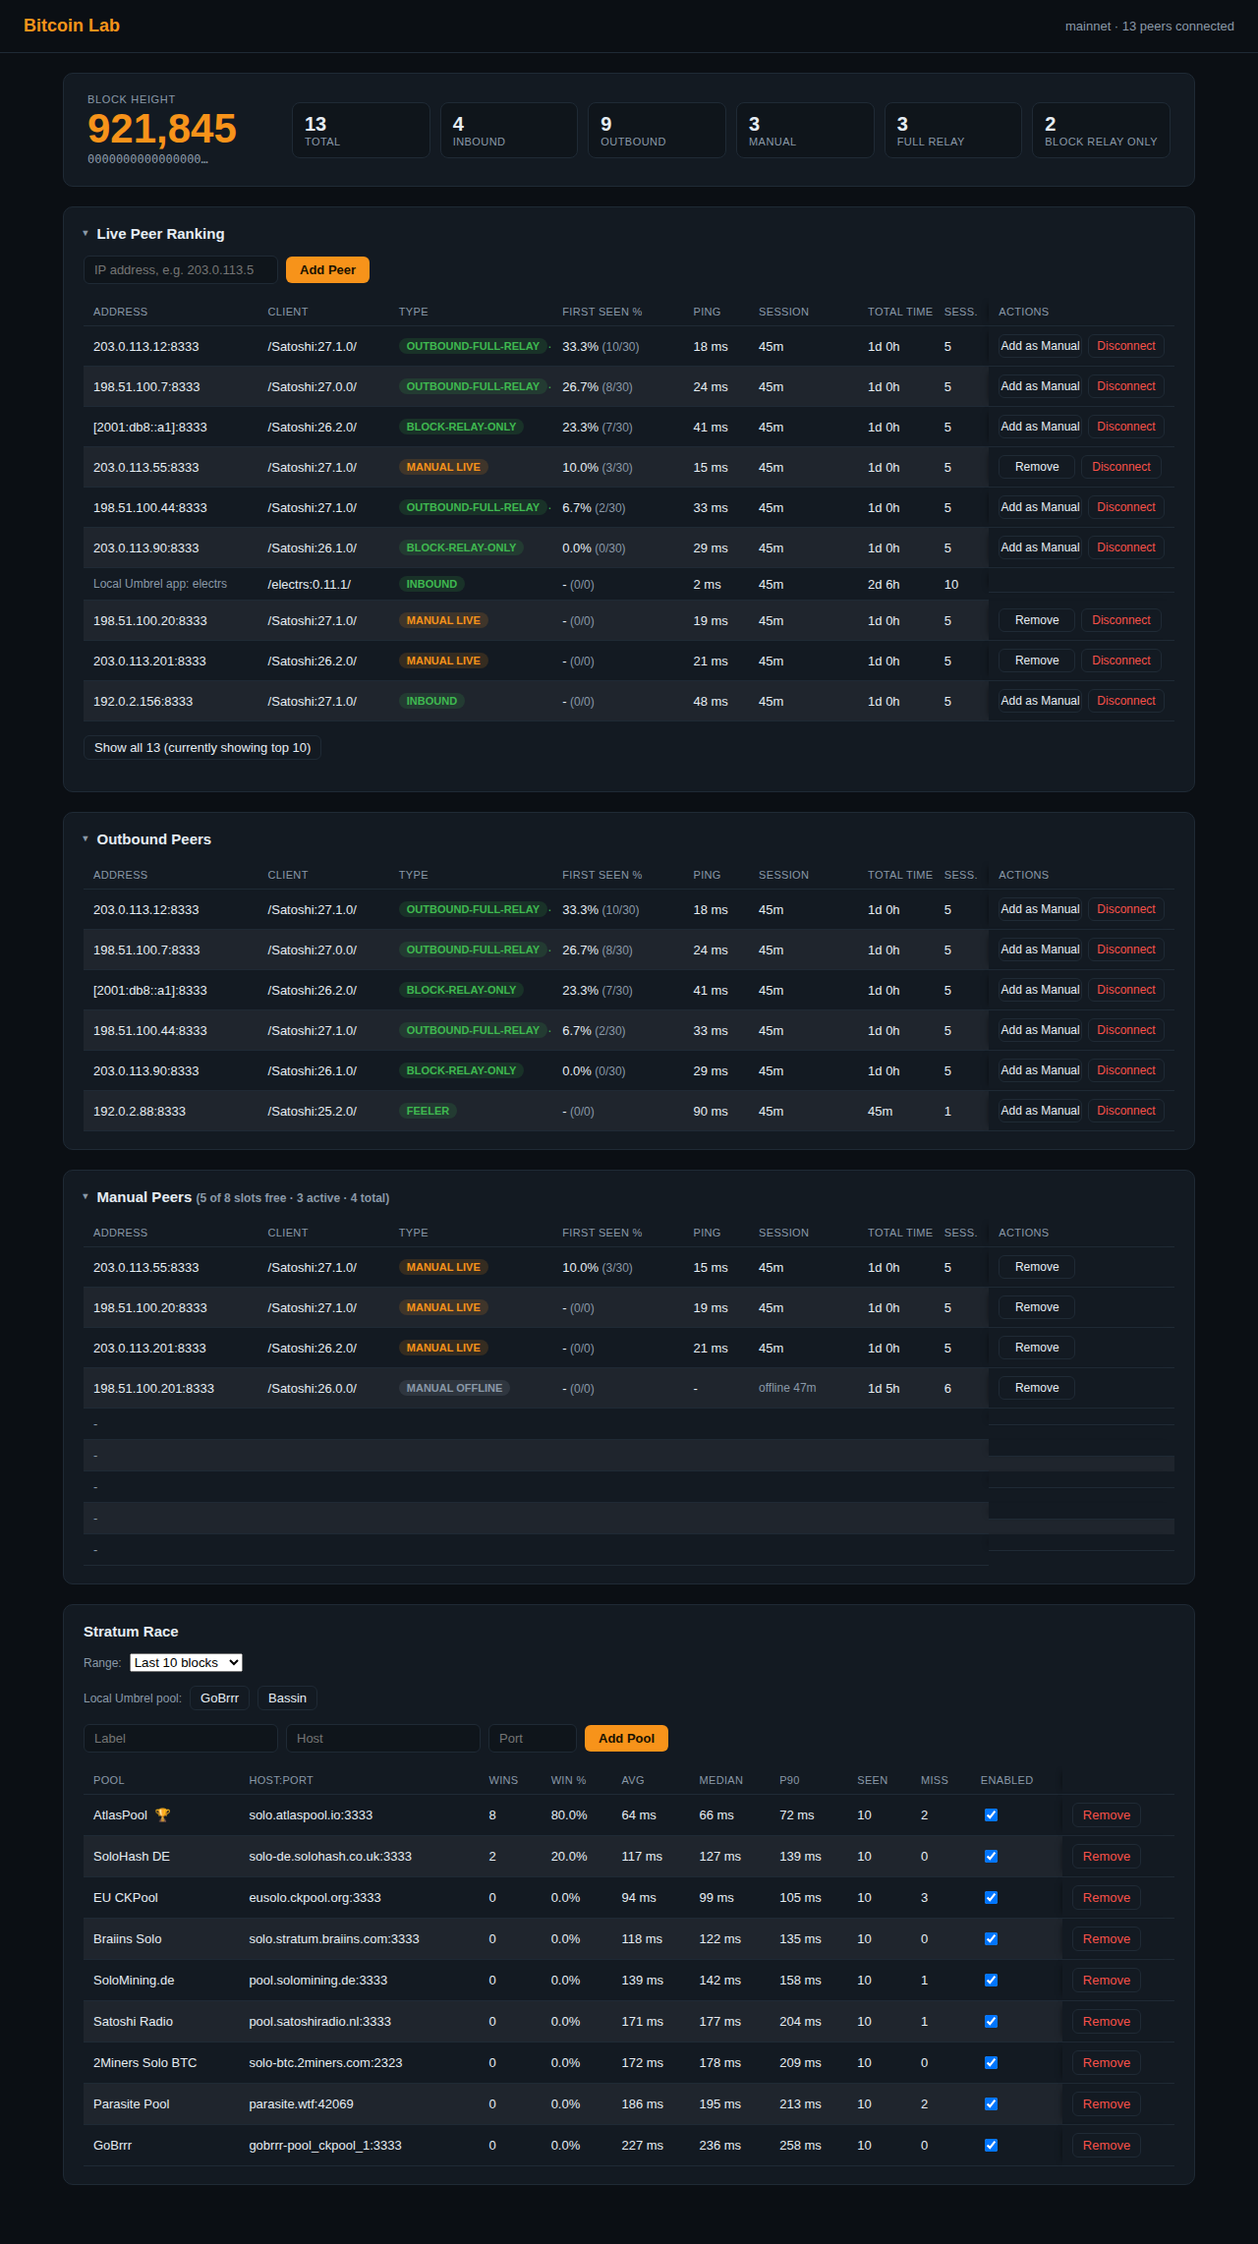
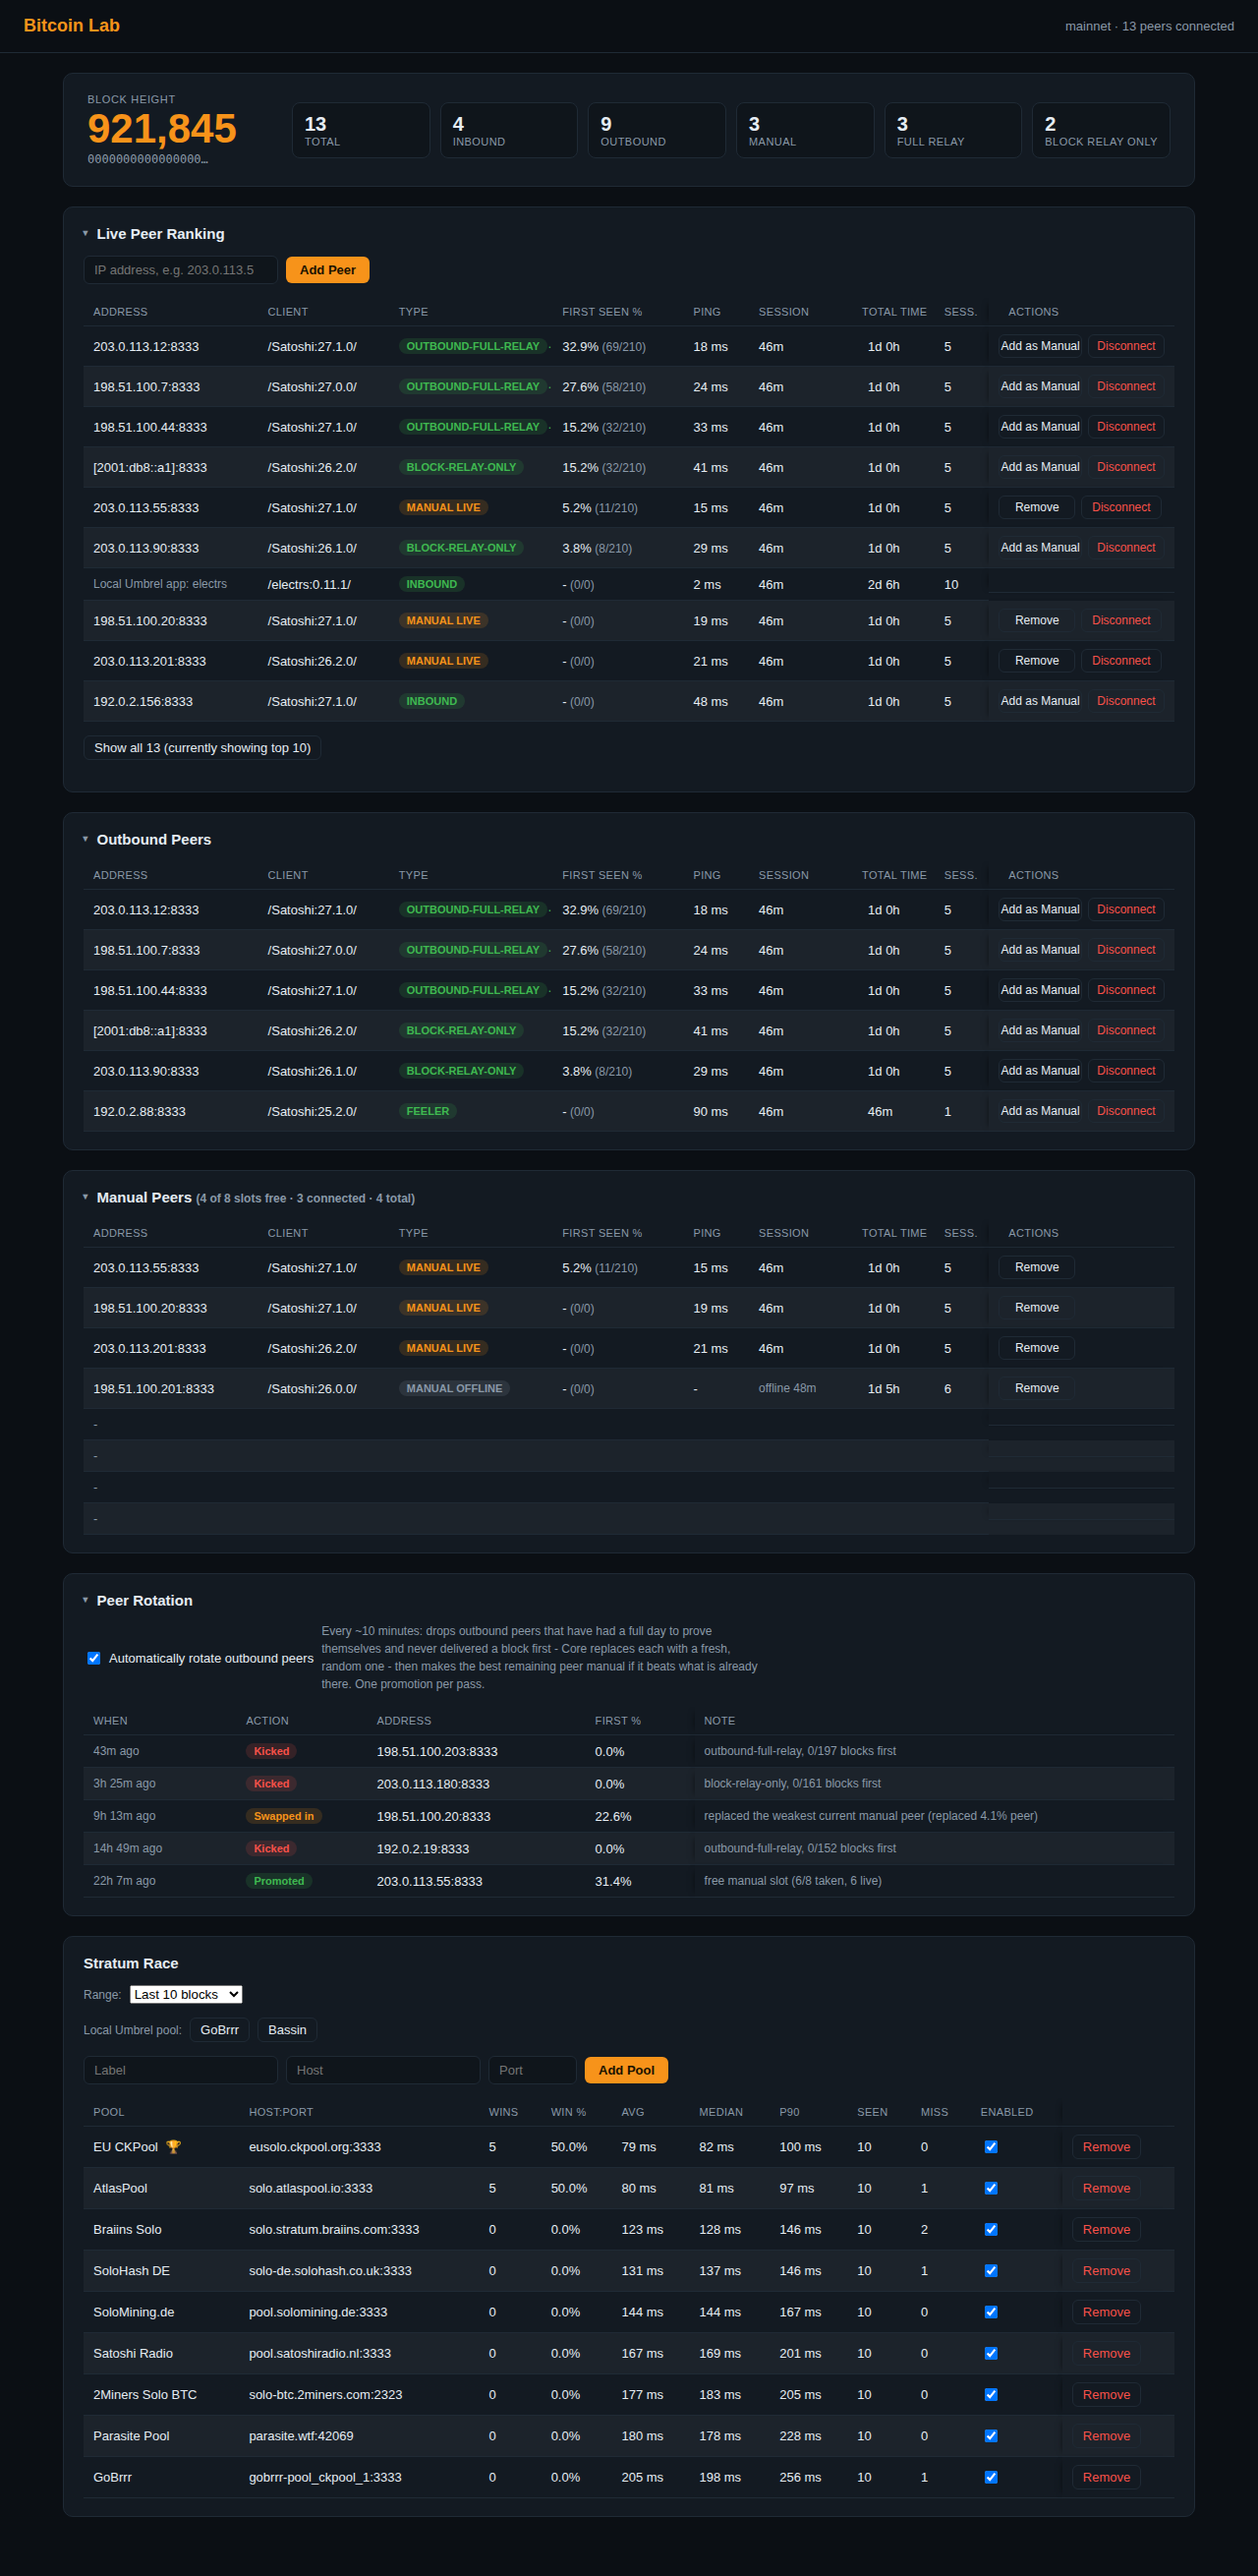
v1.13.0: rotation fixes, cleanup release (bitcoin-lab 1.13.0)
Points at the release that fixes both peer-rotation bugs, six older ones,
and a round of efficiency and dead-weight cleanup. Store text now leads with
what the app is actually for - the wasted work between a block being found
and your pool handing out new work - instead of leaving it to paragraph
four. Screenshot regenerated: the old one predated the Peer Rotation panel.

diff --git a/README.md b/README.md
@@ -1,9 +1,14 @@
 # Bitcoin Lab — Umbrel Community App Store
 
-**Bitcoin Lab** is for solo miners running their own pool: it ranks your Bitcoin
-Core node's peers by which ones actually deliver new blocks first, so you can
-keep the best and drop the rest — and Stratum Race shows whether that actually
-made your pool faster.
+**Bitcoin Lab** is for solo miners running their own pool. Your node hears about
+each new block from whichever peer relays it to you first; until it does, your
+pool is still handing out work on a block that has already been solved — hashrate
+spent on nothing. Bitcoin Lab finds the peers that consistently deliver first,
+keeps them, and then measures whether your pool actually got faster because of it.
+
+It is worth being plain about the size of the prize: this is a game of tens to a
+few hundred milliseconds per block. Small — but it is exactly the window in which
+a miner is working on a block that can no longer win.
 
 ![Bitcoin Lab dashboard](./bitcoinlab-node/1.png)
 
@@ -22,9 +27,10 @@ made your pool faster.
   first, since only the port in the reported address is temporary, and not
   every peer listens.
   An optional toggle automates this whole loop: it disconnects outbound peers
-  once they've had a full day to prove themselves and never delivered a block
-  first, then promotes or swaps in the best-performing candidate as manual —
-  one step per pass, off by default.
+  once they have had a full day to prove themselves and never delivered a block
+  first, then makes the best remaining candidate manual if it beats what is
+  already there — one step per pass, off by default, with a log of everything
+  it has done.
 - **Stratum Race** — tracks latency (avg/median/P90) and win rate per mining
   pool, race after race (any local solo pool you add by host/port, plus a
   handful of public solo pools out of the box). **This is the main reason it
